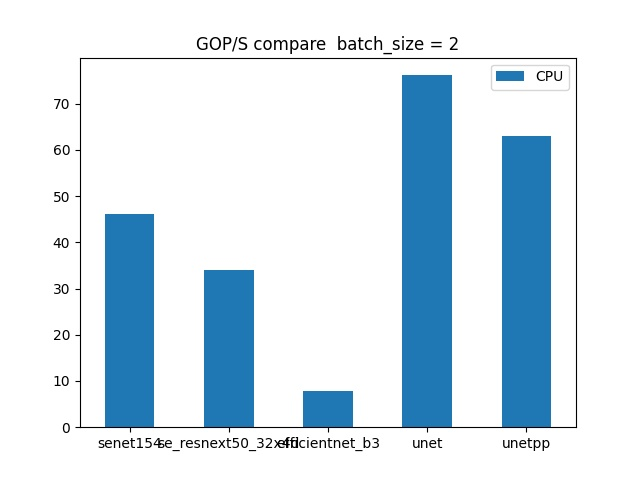
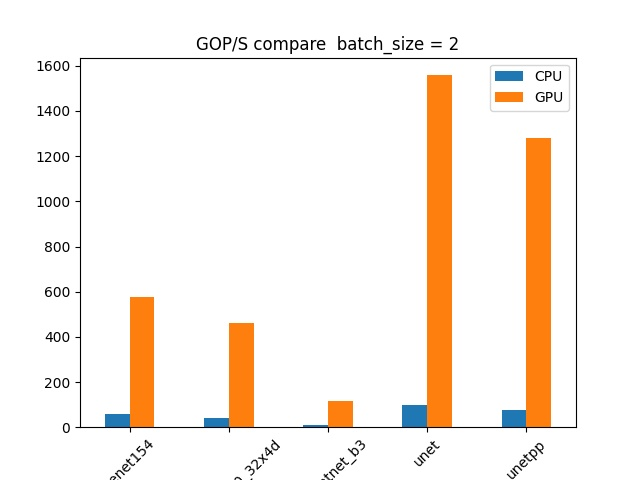
do unet unet++ cpu/gpu test

diff --git a/benchmark_op.py b/benchmark_op.py
@@ -35,12 +35,13 @@ class InferenceDataset(Dataset):
 
 class DLHBenchmark():
     """can benchmark GOPS and GOPJ on different hardware by running different model"""
-    def __init__(self, warm_up, infer_epoch, batch_size_list, model_list, hardware_info):
+    def __init__(self, warm_up, infer_epoch, batch_size_list, model_list, hardware_info, model_simple):
         self.warm_up = warm_up
         self.infer_epoch = infer_epoch
         self.batch_size_list = batch_size_list
         self.model_list = model_list
         self.hardware_info = hardware_info
+        self.model_simple = model_simple
 
         max_batch_size = max(self.batch_size_list)
         data_num = max_batch_size * (self.warm_up + self.infer_epoch)
@@ -113,7 +114,7 @@ class DLHBenchmark():
         model.eval()
         
         for step, img in enumerate(img_dataloader):
-            img.to("cuda")
+            img = img.to("cuda")
             if step >= loop_num:
                 break
             starter, ender = torch.cuda.Event(enable_timing = True), torch.cuda.Event(enable_timing = True)
@@ -169,30 +170,32 @@ class DLHBenchmark():
                 benchmark_opj[hardware_type] = opj_record
 
             file_name = "results/final/final_ops_" + str(batch_size)
-            benchmark_ops_new = pandas.DataFrame(benchmark_ops, index = self.model_list)
+            benchmark_ops_new = pandas.DataFrame(benchmark_ops, index = self.model_simple)
             fig1_title = "GOP/S compare  " + "batch_size = " + str(batch_size)
-            ops_pt = benchmark_ops_new.plot(kind="bar", title=fig1_title, rot=0)
+            ops_pt = benchmark_ops_new.plot(kind="bar", title=fig1_title, rot=45)
             ops_fig = ops_pt.get_figure()
             fig1_name = "results/final/fig_ops_" + str(batch_size) + ".jpg"
             ops_fig.savefig(fig1_name)
             benchmark_ops_new.to_csv(file_name, index = True)
 
             file_name = "results/final/final_opj_" + str(batch_size)
-            benchmark_opj_new = pandas.DataFrame(benchmark_opj, index = self.model_list)
+            benchmark_opj_new = pandas.DataFrame(benchmark_opj, index = self.model_simple)
             fig2_title = "GOP/J compare  " + "batch_size = " + str(batch_size)
-            opj_pt = benchmark_opj_new.plot(kind="bar", title=fig2_title, rot=0)
+            opj_pt = benchmark_opj_new.plot(kind="bar", title=fig2_title, rot=45)
             opj_fig = opj_pt.get_figure()
             fig2_name = "results/final/fig_opj_" + str(batch_size) + ".jpg"
             opj_fig.savefig(fig2_name)
             benchmark_opj_new.to_csv(file_name, index = True)
 
 if __name__ == "__main__":
-    warm_up = 5
-    infer_epoch = 5
-    batch_size_list = [1, 2, 4]
+    warm_up = 2
+    infer_epoch = 2
+    #batch_size_list = [1, 2, 4]
+    batch_size_list = [1]
     model_list = ["senet154", "se_resnext50_32x4d", "efficientnet_b3", "unet", "unetpp"]
-    hardware_info = {"CPU":15, "GPU":75}
+    model_simple = ["se154", "se50", "eb3", "unet", "unet++"]
+    hardware_info = {"CPU":45, "GPU":75}
     dlh_bench = DLHBenchmark(warm_up, infer_epoch, batch_size_list,
-                            model_list, hardware_info)
+                            model_list, hardware_info, model_simple)
     dlh_bench.bench_opsj()
     
